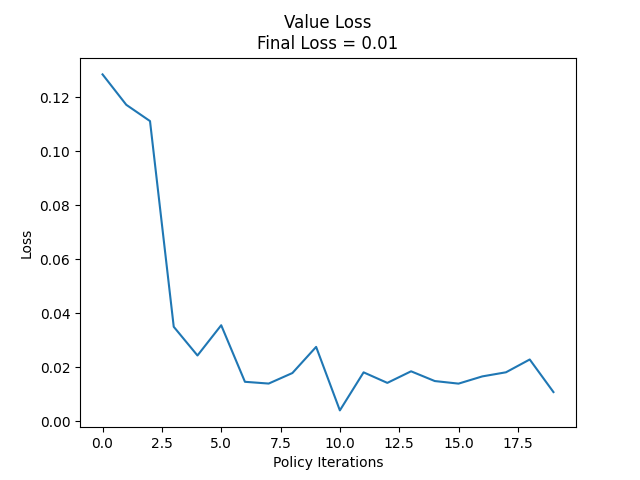
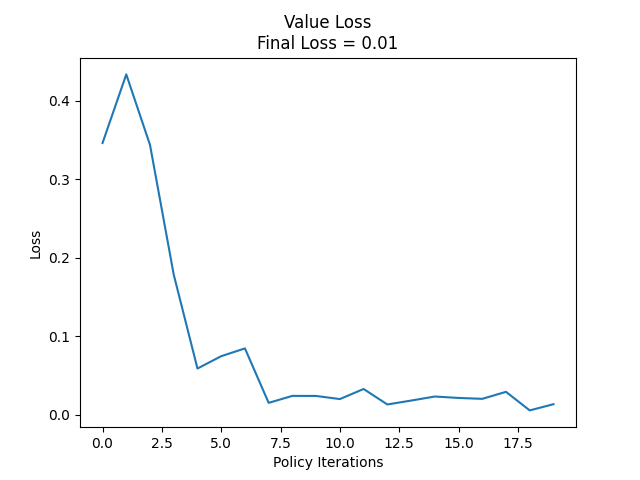
debias the reward

diff --git a/Utils/train.py b/Utils/train.py
@@ -207,7 +207,7 @@ class PPO_Solver(Solver):
         for t in range(self.time_horizon):
             payoff_lst = torch.tensor(value_dct[t]["payoff"]).to(device = self.device)
             if update_value_scale:
-                mu, sd = torch.mean(payoff_lst), torch.std(payoff_lst) + 1 #(self.time_horizon - t)
+                mu, sd = 0, torch.std(payoff_lst) + 1 #torch.mean(payoff_lst), torch.std(payoff_lst) + 1 #(self.time_horizon - t)
                 self.value_scale[t] = (mu, sd)
             mu, sd = self.value_scale[t]
             payoff_lst = (payoff_lst - mu) / sd
